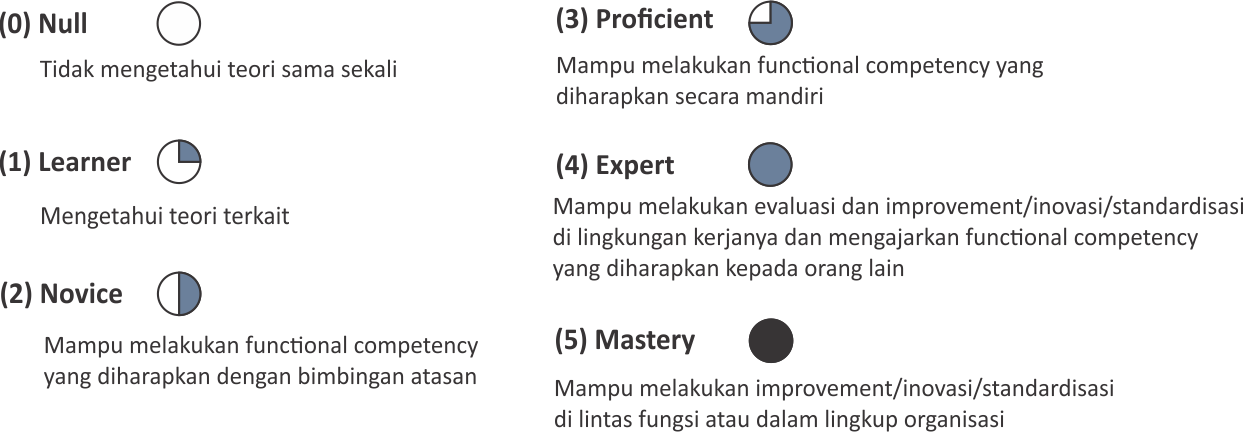
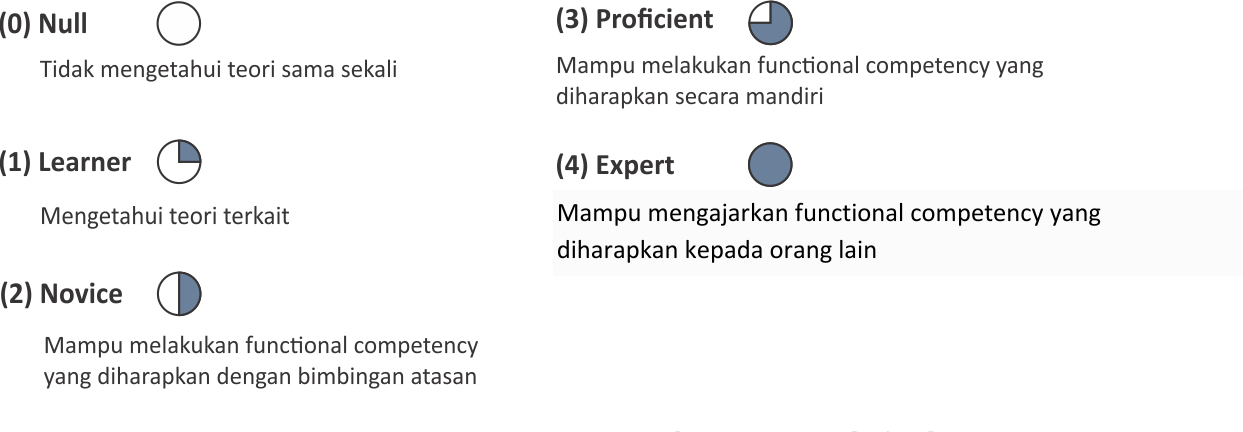
update target jadi sampai 4

Changed region(s): [[0.428, 0.4514, 1.0, 0.662], [0.428, 0.8727, 0.8866, 1.0], [0.428, 0.7222, 0.642, 0.8426]]

diff --git a/resources/views/pages/admin/competency-directory/form.blade.php b/resources/views/pages/admin/competency-directory/form.blade.php
@@ -90,7 +90,6 @@
                         <option {{($list->target == "2") ? "selected" : ''}} value="2">2</option>
                         <option {{($list->target == "3") ? "selected" : ''}} value="3">3</option>
                         <option {{($list->target == "4") ? "selected" : ''}} value="4">4</option>
-                        <option {{($list->target == "5") ? "selected" : ''}} value="5">5</option>
                     </select>
                   </td>
                 @endforeach
@@ -113,12 +112,11 @@ $(document).ready(function(){
   $("#id_curriculum").selectpicker('refresh');
   $(".selectEdit").selectpicker('refresh');
     $('select').on('change', function() {
-      idd = $("option:selected").attr("id") ;
+      idd = $("option:selected").attr("id_curriculum") ;
         if(idd == 5){
           $("#myView").html('<img src="{{ asset("assets/images/general.png") }}" id="img-key" class="img-accordion" style="max-height:400px;margin-left:100px">');
         }else{
-          $("#myView").html('<img src="{{ asset("assets/images/functional.png") }}" id="img-key" class="img-accordion" style="max-height:400px; margin-left:100px">');
-
+          $("#myView").html('<img src="{{ asset("assets/images/Functional.png") }}" id="img-key" class="img-accordion" style="max-height:400px; margin-left:100px">');
         }
     });
   });
@@ -135,7 +133,7 @@ $(document).ready(function(){
     }
   }
 
-  function addRow(el) {
+    function addRow(el) {
         var options = "";
         var curriculumId = $(el).attr("curriculum-id");
         const url = "{!!route('addRow')!!}?curriculumId="+curriculumId

diff --git a/resources/views/pages/admin/competency-directory/tr.blade.php b/resources/views/pages/admin/competency-directory/tr.blade.php
@@ -16,7 +16,7 @@
           <option value='2'>2</option>
           <option value='3'>3</option>
           <option value='4'>4</option>
-          <option value='5'>5</option>
+          
       </select>
   </td>
   <td>
@@ -28,7 +28,7 @@
           <option value='2'>2</option>
           <option value='3'>3</option>
           <option value='4'>4</option>
-          <option value='5'>5</option>
+          
       </select>
   </td>
   <td>
@@ -40,7 +40,7 @@
           <option value='2'>2</option>
           <option value='3'>3</option>
           <option value='4'>4</option>
-          <option value='5'>5</option>
+          
       </select>
   </td>
   <td>
@@ -52,7 +52,7 @@
           <option value='2'>2</option>
           <option value='3'>3</option>
           <option value='4'>4</option>
-          <option value='5'>5</option>
+          
       </select>
   </td>
   <td>
@@ -64,7 +64,7 @@
           <option value='2'>2</option>
           <option value='3'>3</option>
           <option value='4'>4</option>
-          <option value='5'>5</option>
+          
       </select>
   </td>
   <td>
@@ -76,7 +76,7 @@
           <option value='2'>2</option>
           <option value='3'>3</option>
           <option value='4'>4</option>
-          <option value='5'>5</option>
+          
       </select>
   </td>
   <td style='text-align:center'>

diff --git a/resources/views/pages/admin/white-tag/form.blade.php b/resources/views/pages/admin/white-tag/form.blade.php
@@ -18,7 +18,6 @@
                 <option value="2" {{$comp->start  == '2' ? 'selected' : ''}}>2</option>
                 <option value="3" {{$comp->start  == '3' ? 'selected' : ''}}>3</option>
                 <option value="4" {{$comp->start  == '4' ? 'selected' : ''}}>4</option>
-                <option value="5" {{$comp->start  == '5' ? 'selected' : ''}}>5</option>
             </select>
             @endif
         </td>
@@ -33,7 +32,6 @@
                     <option value="2" {{$comp->actual  == '2' ? 'selected' : ''}}>2</option>
                     <option value="3" {{$comp->actual  == '3' ? 'selected' : ''}}>3</option>
                     <option value="4" {{$comp->actual  == '4' ? 'selected' : ''}}>4</option>
-                    <option value="5" {{$comp->actual  == '5' ? 'selected' : ''}}>5</option>
                 </select>
             @endif
         </td>
